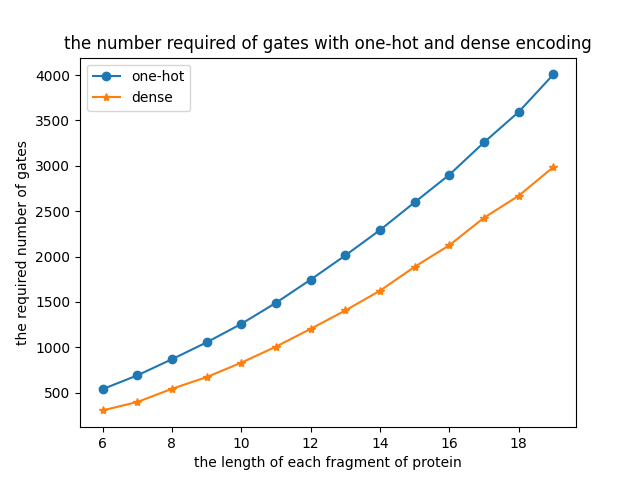
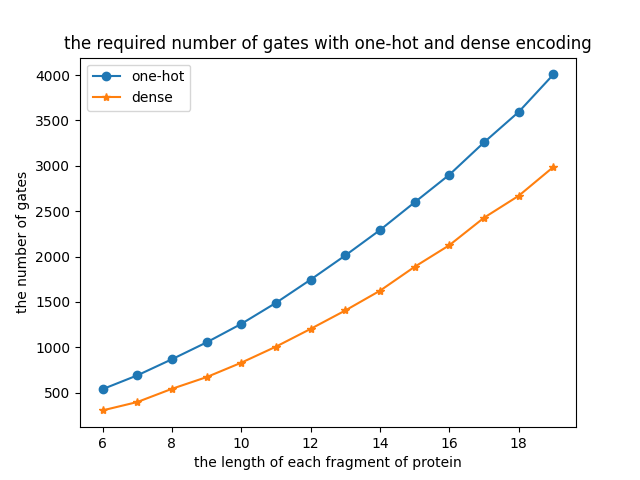
edit plot

Changed region(s): [[0.0, 0.2812, 0.0625, 0.7188], [0.1562, 0.0625, 0.375, 0.125]]

diff --git a/solution/solution.py b/solution/solution.py
@@ -1,18 +1,19 @@
+import os.path
 import VQE
 from codon_optimization import CodonOptimization
 from tunable_parameters import TunableParameters
-import util
-import csv
+import util, csv, time
 import numpy as np
-import time
-
+from one_hot_codon_optimization import CodonOptimizationOneHot
 
 def write_data(name, data):
     with open(name, 'w') as file:
         writer = csv.writer(file, delimiter=',', quotechar='|', quoting=csv.QUOTE_MINIMAL)
-        writer.writerow(["amino_sequence", "dense_encoding", "qubit_len", "mRNA_sequence", "value", "time", "Gate_counts"])
+        writer.writerow(
+            ["amino_sequence", "dense_encoding", "qubit_len", "mRNA_sequence", "value", "time", "Gate_counts"])
 
         writer.writerows(data)
+
 
 def optimization(protein_sequence):
     results = []
@@ -27,25 +28,25 @@ def optimization(protein_sequence):
         qubit_op = codonOpt.create_qubit_op()
         count_pauli_z = util.count_pauli_z(qubit_op)
         bitstring, value = VQE.get_min(qubit_op)
-        # bitstring, value = VQE.test(qubit_op)
         mRNA_sequence = util.decode_bitstring(sequence, bitstring)
 
         executing_time = round(time.time() - start_time, 2)
         print(f"The bit string is {bitstring}, value is {value.real}")
         print(f"The execute time on {sequence} is {executing_time} s")
         index += 1
-        results.append([sequence, bitstring, len(bitstring), mRNA_sequence, round(value.real, 3), executing_time, count_pauli_z])
+        results.append(
+            [sequence, bitstring, len(bitstring), mRNA_sequence, round(value.real, 3), executing_time, count_pauli_z])
 
     return results
 
-def count_gates(protein_sequence):
+
+def count_gates(protein_sequence_list):
     results = []
     index = 1
-    count = len(protein_sequence)
+    count = len(protein_sequence_list)
     results.append(["amino_sequence", "qubit_len", "Gate_counts"])
-    for sequence in protein_sequence:
+    for sequence in protein_sequence_list:
         tune_parameters = TunableParameters(0.3, 0.15 * 6, 1, 130000)
-
         codonOpt = CodonOptimization(sequence, tune_parameters)
         print(f"{index}/{count} Start to execute VQE on {sequence} ... , requiring {codonOpt.qubit_len} qubits")
         qubit_op = codonOpt.create_qubit_op()
@@ -54,37 +55,67 @@ def count_gates(protein_sequence):
         results.append([sequence, codonOpt.qubit_len, count_pauli_z])
     return results
 
+
 def spilt_sequence(protein_sequence, split_len):
     sequence_list = []
 
     index = 0
     while index < len(protein_sequence):
-        sequence_list.append(protein_sequence[index:index+split_len])
+        sequence_list.append(protein_sequence[index:index + split_len])
         index += split_len
 
     return sequence_list
 
+
 if __name__ == '__main__':
-
     protein_sequence = "FVFLVLLPLVSSQCVNLTTRTQLPPAYTNSFTRGVYYPDKVFRSSVLHSTQDLFLPFFSNVTWFHAIHVSGTNGTKRFDNPVLPFNDGVYFASTEKSNIIRGWIFGTTLDSKTQSLLIVNNATNVVIKVCEFQFCNDPFLGVYYHKNNKSWMESEFRVYSSANNCTFEYVSQPFLMDLEGKQGNFKNLREFVFKNIDGYFKIYSKHTPINLVRDLPQGFSALEPLVDLPIGINITRFQTLLALHRSYLTPGDSSSGWTAGAAAYYVGYLQPRTFLLKYNENGTITDAVDCALDPLSETKCTLKSFTVEKGIYQTSNFRVQPTESIVRFPNITNLCPFGEVFNATRFASVYAWNRKRISNCVADYSVLYNSASFSTFKCYGVSPTKLNDLCFTNVYADSFVIRGDEVRQIAPGQTGKIADYNYKLPDDFTGCVIAWNSNNLDSKVGGNYNYLYRLFRKSNLKPFERDISTEIYQAGSTPCNGVEGFNCYFPLQSYGFQPTNGVGYQPYRVVVLSFELLHAPATVCGPKKSTNLVKNKCVNFNFNGLTGTGVLTESNKKFLPFQQFGRDIADTTDAVRDPQTLEILDITPCSFGGVSVITPGTNTSNQVAVLYQDVNCTEVPVAIHADQLTPTWRVYSTGSNVFQTRAGCLIGAEHVNNSYECDIPIGAGICASYQTQTNSPRRARSVASQSIIAYTMSLGAENSVAYSNNSIAIPTNFTISVTTEILPVSMTKTSVDCTMYICGDSTECSNLLLQYGSFCTQLNRALTGIAVEQDKNTQEVFAQVKQIYKTPPIKDFGGFNFSQILPDPSKPSKRSFIEDLLFNKVTLADAGFIKQYGDCLGDIAARDLICAQKFNGLTVLPPLLTDEMIAQYTSALLAGTITSGWTFGAGAALQIPFAMQMAYRFNGIGVTQNVLYENQKLIANQFNSAIGKIQDSLSSTASALGKLQDVVNQNAQALNTLVKQLSSNFGAISSVLNDILSRLDKVEAEVQIDRLITGRLQSLQTYVTQQLIRAAEIRASANLAATKMSECVLGQSKRVDFCGKGYHLMSFPQSAPHGVVFLHVTYVPAQEKNFTTAPAICHDGKAHFPREGVFVSNGTHWFVTQRNFYEPQIITTDNTFVSGNCDVVIGIVNNTVYDPLQPELDSFKEELDKYFKNHTSPDVDLGDISGINASVVNIQKEIDRLNEVAKNLNESLIDLQELGKYEQYIKWPWYIWLGFIAGLIAIVMVTIMLCCMTSCCSCLKGCCSCGSCCKFDEDDSEPVLKGVKLHYT"
-    for i in range(3, 20):
-        split_len = i
-        sequence_list = spilt_sequence(protein_sequence, split_len)
-        output_data = count_gates(sequence_list)
-        name = time.strftime("%m-%d_%H-%M-%S")
-        write_data(f"../output/{split_len}/Gate/dense_P0DTC2_{name}_Gate.csv", output_data)
+    # statistic the number of gates with dense encoding for fragments with a length from 3 to 19
+    # for i in range(3, 20):
+    #     split_len = i
+    #     sequence_list = spilt_sequence(protein_sequence, split_len)
+    #     output_data = count_gates(sequence_list)
+    #     name = time.strftime("%m-%d_%H-%M-%S")
+    #     path = f"../output/{split_len}/Gate"
+    #     if not os.path.exists(path):
+    #         os.makedirs(path)
+    #     write_data(f"{path}/dense_P0DTC2_{name}_Gate.csv", output_data)
 
-    for i in range(3, 9):
-        split_len = i
-        sequence_list = spilt_sequence(protein_sequence, split_len)
-        output_data = optimization(sequence_list)
-        write_data(f"../output/{split_len}/P0DTC2_{name}.csv", output_data)
+    # execute the quantum method for mRNA codon optimization for fragments with a length from 3 to 8.
+    # It takes more time when the length of fragments is larger than 8
+    # for i in range(3, 9):
+    #     split_len = i
+    #     sequence_list = spilt_sequence(protein_sequence, split_len)
+    #     output_data = optimization(sequence_list)
+    #     name = time.strftime("%m-%d_%H-%M-%S")
+    #     path = f"../output/{split_len}/dense"
+    #     if not os.path.exists(path):
+    #         os.makedirs(path)
+    #     write_data(f"/P0DTC2_{name}.csv", output_data)
 
-# sequence = "HAIHVSGT"
-# parameters = TunableParameters(0.3, 0.15 * 6, 1, 13000)
-# codonOpt = CodonOptimization(sequence, parameters)
-# qubit_op = codonOpt.create_qubit_op()
-# bitstring, value = VQE.get_min(qubit_op)
-# mRNA_sequence = util.decode_bitstring(sequence, bitstring)
-# print(bitstring, value)
-# print(mRNA_sequence)
+    # statistic the required number of qubits for each fragment with lengths from 6 to 19,
+    # the maximum of each fragment as result
+
+    statstic_qubits = []
+    statstic_qubits.append(["fragment_len", "dense", "one_hot"])
+    mean_qubits = []
+    mean_qubits.append(["fragment_len", "dense", "one_hot"])
+    start_len = 6
+    end_len = 20
+    for split_len in range(start_len, end_len):
+        sequence_list = spilt_sequence(protein_sequence, split_len)
+        qubits_dense_list = util.count_qubits(sequence_list, "dense")
+        qubits_one_hot_list = util.count_qubits(sequence_list, "one_hot")
+        statstic_qubits.append([split_len, max(qubits_dense_list), max(qubits_one_hot_list)])
+        mean_qubits.append([split_len, round(np.mean(qubits_dense_list)), round(np.mean(qubits_one_hot_list))])
+    # util.write_data(f"../output/statistic_qubits.csv", statstic_qubits)
+    util.write_data(f"../output/statistic_mean_qubits.csv", mean_qubits)
+
+    # test whether the quantum method can work for the protein sequence "HAIHVSGT"
+    # sequence = "HAIHVSGT"
+    # parameters = TunableParameters(0.3, 0.15 * 6, 1, 13000)
+    # codonOpt = CodonOptimization(sequence, parameters)
+    # qubit_op = codonOpt.create_qubit_op()
+    # bitstring, value = VQE.get_min(qubit_op)
+    # mRNA_sequence = util.decode_bitstring(sequence, bitstring)
+    # print(bitstring, value)
+    # print(mRNA_sequence)

diff --git a/VQE.py b/VQE.py
@@ -2,17 +2,13 @@ from qiskit.circuit.library import RealAmplitudes
 from qiskit.algorithms.optimizers import COBYLA
 from qiskit.algorithms.minimum_eigensolvers import SamplingVQE
 from qiskit.primitives import Sampler
-from qiskit.circuit.library import EfficientSU2
 from qiskit.opflow import PauliSumOp
 
 
 def get_min(qubit_op):
-    # set classical optimizer
     optimizer = COBYLA(maxiter=50)
 
-    # set variational ansatz
     ansatz = RealAmplitudes(reps=1)
-    # ansatz = EfficientSU2(qubit_op.num_qubits, entanglement='linear')
     counts = []
     values = []
 
@@ -20,7 +16,8 @@ def get_min(qubit_op):
         counts.append(eval_count)
         values.append(mean)
 
-    # initialize VQE using CVaR with alpha = 0.1
+    # initialize VQE using CVaR with alpha = 0.1 or 0.05 which can be set by user,
+    # this method set alpha = 0.1
     vqe = SamplingVQE(
         Sampler(),
         ansatz=ansatz,
@@ -29,11 +26,17 @@ def get_min(qubit_op):
         callback=store_intermediate_result,
     )
     raw_result = vqe.compute_minimum_eigenvalue(qubit_op)
-    # print(vqe.sampler.circuits[0].depth())
+    # We only need the final qubit and the lowest value
     return raw_result.best_measurement['bitstring'], raw_result.best_measurement['value']
 
 
 def test(qubit_op):
+    """
+    This does not work because the qiskit-terra requires the version of qiskit less than 1.0.0,
+    but other packages require qiskit more than 1.0.0.
+    :param qubit_op:
+    :return:
+    """
     from qiskit.utils import algorithm_globals
     from qiskit_aer.primitives import Estimator as AerEstimator
     from qiskit_ibm_runtime import Options

diff --git a/plot/plot_compare_qubits.py b/plot/plot_compare_qubits.py
@@ -1,0 +1,35 @@
+import matplotlib.pyplot as plt
+import time, csv
+
+
+def plot_qubits(dense_qubits, one_hot_qubits, output_file):
+    x = range(6, 20)
+    plt.plot(x, one_hot_qubits[0], marker='o', label='maximum on one-hot')
+    plt.plot(x, dense_qubits[0], marker='*', label='maximum on dense')
+    plt.plot(x, one_hot_qubits[1], marker='h', label='mean on one-hot')
+    plt.plot(x, dense_qubits[1], marker="v", label="mean on dense")
+    plt.xlabel("the length of each fragment of protein")
+    plt.ylabel("the number of qubits")
+    plt.title("the required number of gates with one-hot and dense encoding")
+    plt.legend()
+    plt.savefig(output_file)
+
+
+def read_data(file_name):
+    dense_gates = []
+    one_gates = []
+    with open(file_name, 'r') as csvfile:
+        reader = csv.DictReader(csvfile, delimiter=',', quotechar="|")
+        for row in reader:
+            dense_gates.append(int(row['dense']))
+            one_gates.append(int(row['one_hot']))
+
+    return dense_gates, one_gates
+
+dense_qubits, one_hot_qubits = read_data(f"../output/statistic_qubits.csv")
+mean_dense_qubits, mean_one_hot_qubits = read_data(f"../output/statistic_mean_qubits.csv")
+dense = [dense_qubits, mean_dense_qubits]
+one_hot = [one_hot_qubits, mean_one_hot_qubits]
+plot_qubits(dense, one_hot, f"../output/figure_qubits.png")
+
+

diff --git a/solution/solution_exact.py b/solution/solution_exact.py
@@ -2,6 +2,7 @@ from exact_bit import ExactBit, get_opt_bitstring
 import util, time
 from tunable_parameters import TunableParameters
 
+
 def calculate_one_amino(amino_sequence):
     start_time = time.time()
     tunable_parameters = TunableParameters(0.3, 0.15 * 6, 1, 130000)
@@ -10,8 +11,8 @@ def calculate_one_amino(amino_sequence):
     executing_time = round(time.time() - start_time, 2)
     return [amino_sequence, opt_bitstring, len(opt_bitstring), mRNA_sequence, opt_value, executing_time]
 
-def get_all(protein_sequence, split_len):
 
+def get_all(protein_sequence, split_len):
     results = []
     sequence_list = util.spilt_sequence(protein_sequence, split_len)
     count = len(sequence_list)
@@ -20,17 +21,16 @@ def get_all(protein_sequence, split_len):
         data = calculate_one_amino(amino_sequence)
         print(f"{index}/{count} Start to calculate {amino_sequence} ... , requiring {util.required_qubit_len(amino_sequence)} qubits")
         results.append(data)
+
     return results
 
 
 def write_exact_all(protein_sequence, split_len):
     path = f"../output/{split_len}/exact"
     name = time.strftime("%m-%d_%H-%M-%S")
-
     name = f"{path}/P0DTC2_{name}.csv"
     results = get_all(protein_sequence, split_len)
     util.write_data(name, results)
-
 
 if __name__ == '__main__':
 

diff --git a/util.py b/util.py
@@ -184,3 +184,34 @@ def count_pauli_z(operator):
                 count += 1
 
     return count
+
+
+def count_qubits(protein_sequence, encoding_type):
+    results = []
+    index = 1
+    count = len(protein_sequence)
+    for sequence in protein_sequence:
+        qubit_len = calculate_qubit_len(sequence, encoding_type)
+        print(f"{index}/{count} Start to execute VQE on {sequence} with dense encoding ... , requiring {qubit_len} qubits")
+        index += 1
+        results.append(qubit_len)
+    print(f"The maximum required number of qubits: {max(results)}")
+
+    return results
+
+
+def calculate_qubit_len(sequence, encoding_type, table_name='e_coli_316407'):
+    codon_table = pct.get_codons_table(table_name)
+    count = 0
+    for amino in sequence:
+        if encoding_type == "one_hot":
+            count += len(codon_table[amino])
+        else:
+            # count += np.ceil(np.log2(len(codon_table[amino])))
+            count += round(np.log2(len(codon_table[amino])))
+
+            if round(np.log2(len(codon_table[amino]))) != np.ceil(np.log2(len(codon_table[amino]))):
+
+                print(sequence)
+
+    return count

diff --git a/one_hot_codon_optimization.py b/one_hot_codon_optimization.py
@@ -4,6 +4,7 @@ from one_hot_codon import CodonOneHot
 from tunable_parameters import TunableParameters
 import util
 
+
 class CodonOptimizationOneHot:
 
     def __init__(self, protein_sequence: str, parameters: TunableParameters, table_name="e_coli_316407"):
@@ -81,6 +82,5 @@ class CodonOptimizationOneHot:
     def create_qubit_op(self):
         h = self.create_usage() + self.create_target_gc() + self.create_repeated_nucleotides() + self.create_redundant_encoding()
 
-        # h = self.create_redundant_encoding()
         return h.reduce()
 

diff --git a/plot/plot_compare_gates.py b/plot/plot_compare_gates.py
@@ -7,8 +7,8 @@ def plot_gates(dense_gates, one_hot_gates, output_file):
     plt.plot(x, one_hot_gates[3:], marker='o', label='one-hot')
     plt.plot(x, dense_gates[3:], marker='*', label='dense')
     plt.xlabel("the length of each fragment of protein")
-    plt.ylabel("the required number of gates")
-    plt.title("the number required of gates with one-hot and dense encoding")
+    plt.ylabel("the number of gates")
+    plt.title("the required number of gates with one-hot and dense encoding")
     plt.legend()
     plt.savefig(output_file)
 

diff --git a/codon_optimization.py b/codon_optimization.py
@@ -85,6 +85,5 @@ class CodonOptimization:
     def create_qubit_op(self):
         h = self.create_usage() + self.create_target_gc() + self.create_repeated_nucleotides() + self.create_redundant_encoding()
 
-        # h = self.create_redundant_encoding()
         return h.reduce()
 

diff --git a/exact_bit.py b/exact_bit.py
@@ -1,7 +1,5 @@
 import python_codon_tables as pct
-from tunable_parameters import TunableParameters
 import numpy as np
-
 import util
 from codon_optimization import CodonOptimization
 
